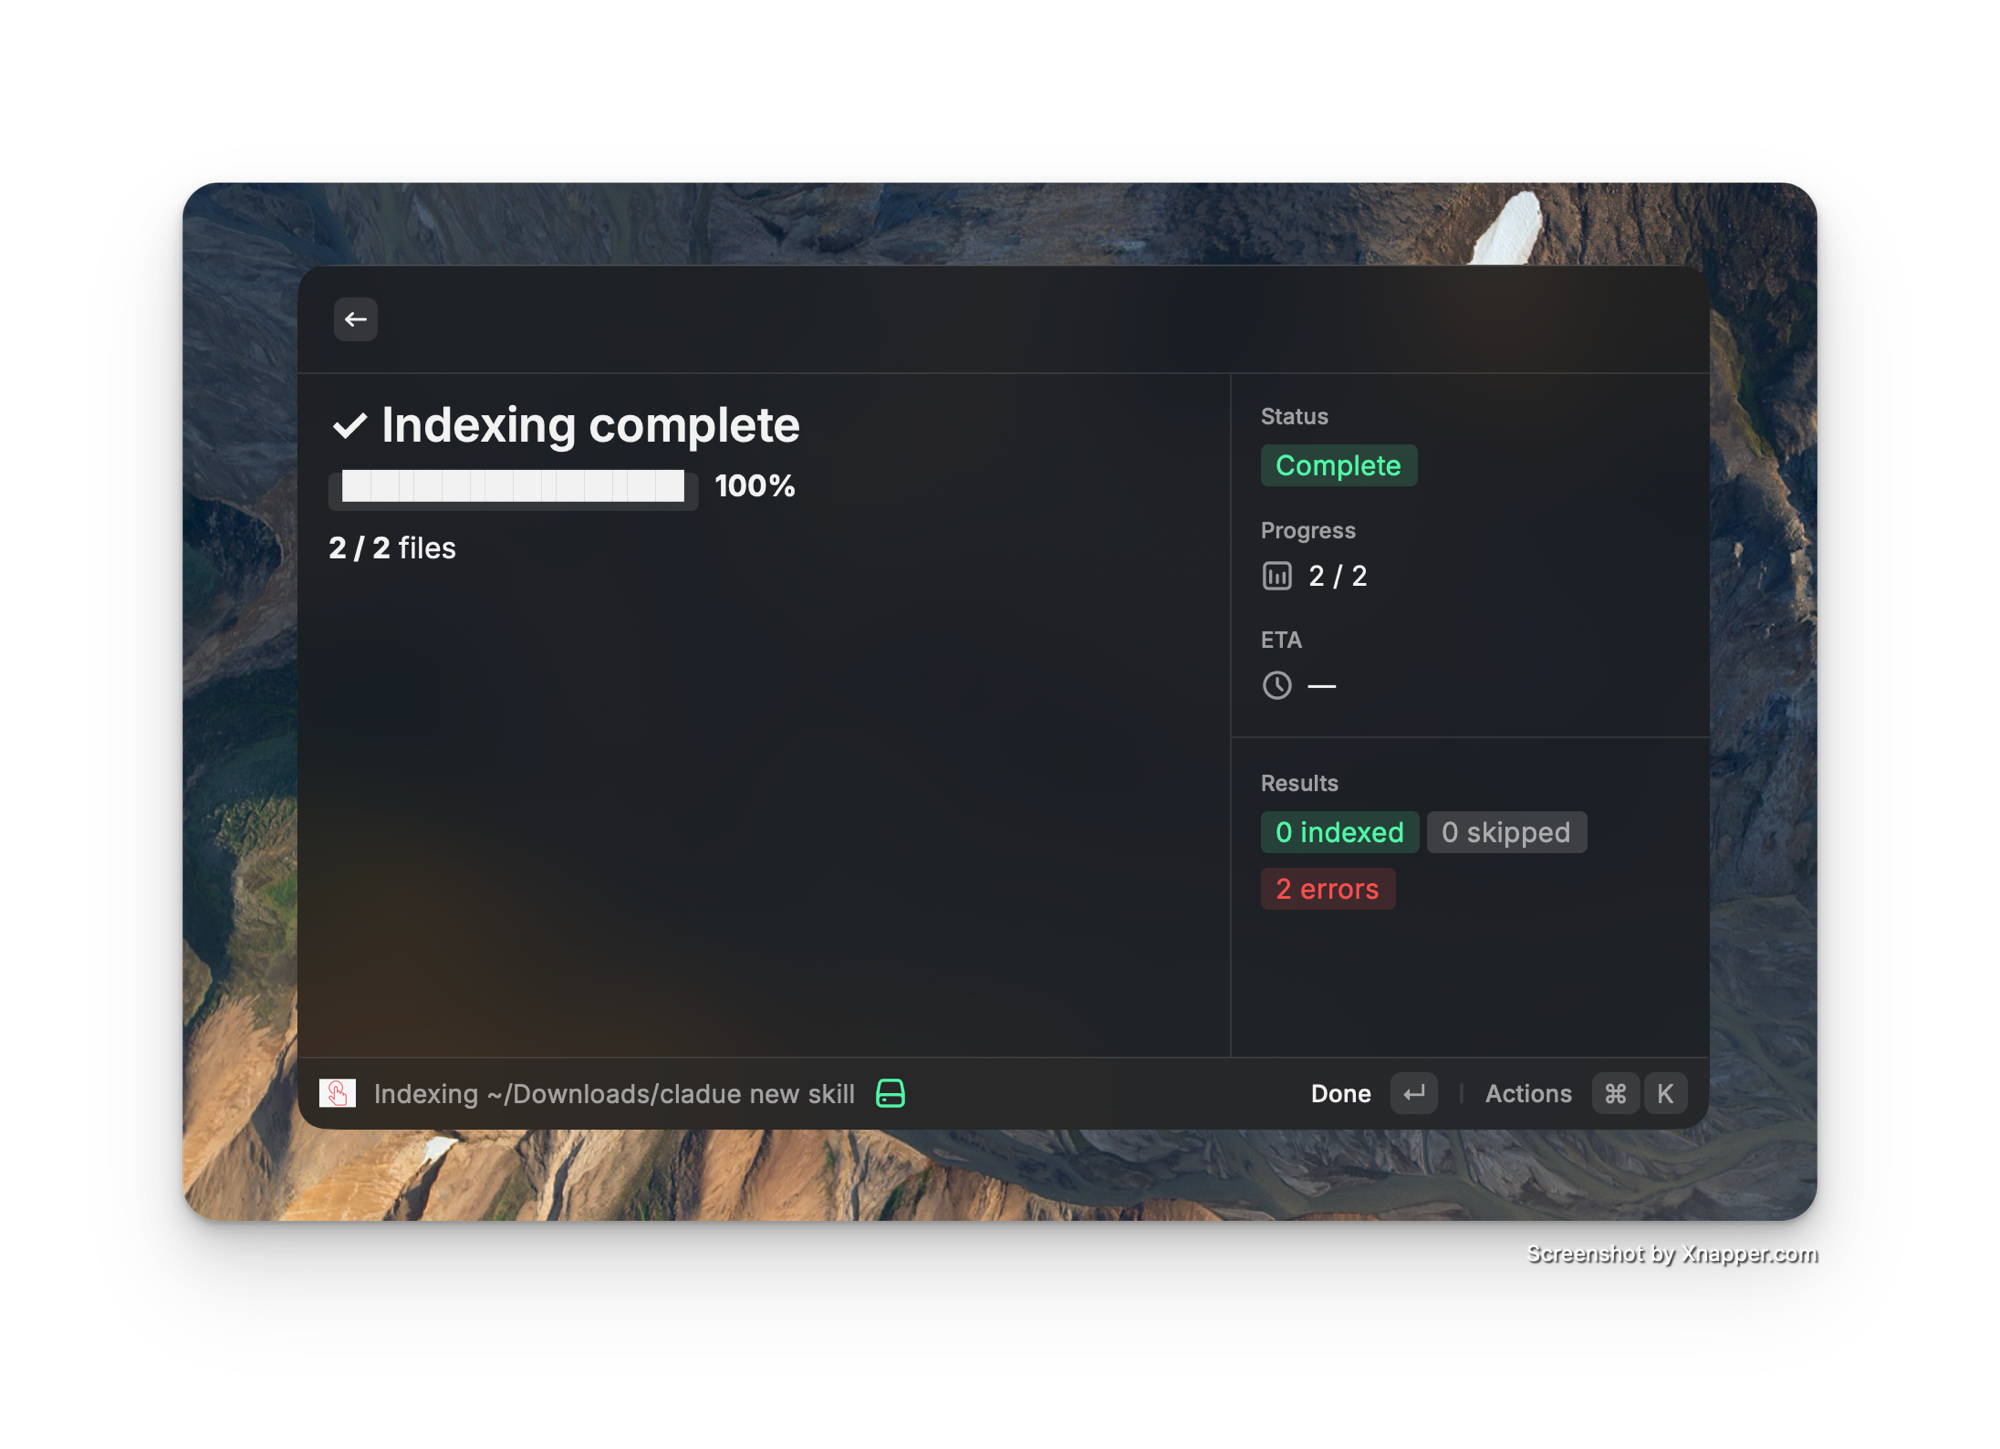
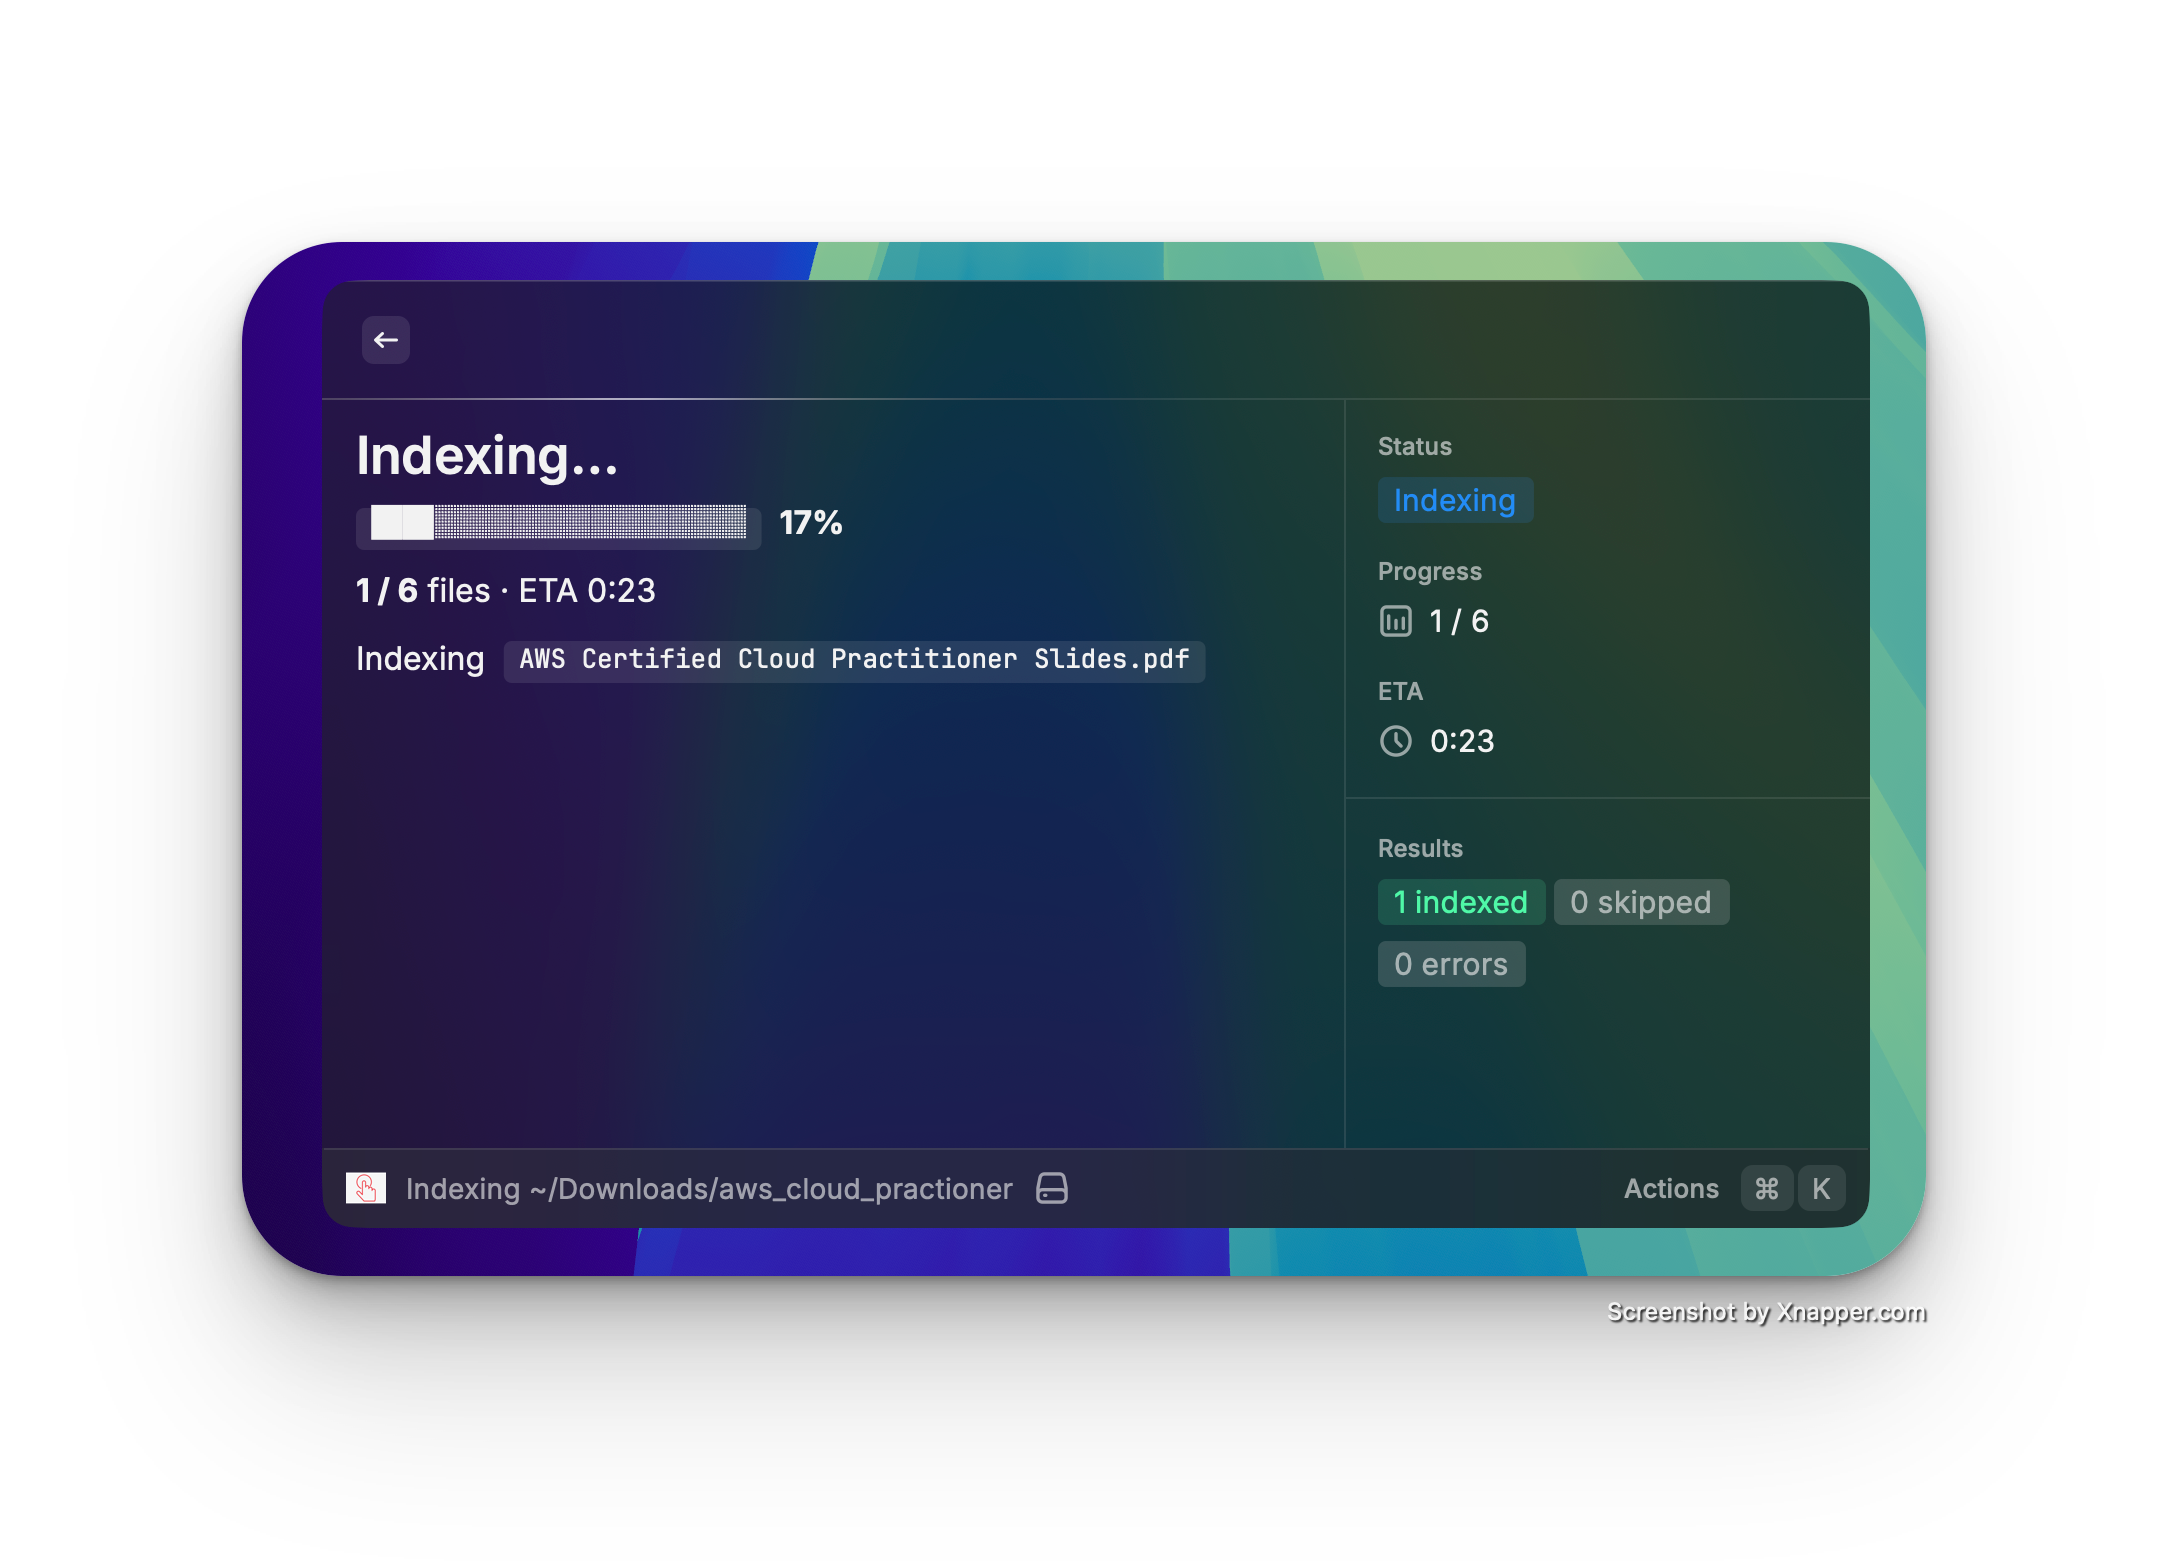
assets changes / raycast serach preview enabled

diff --git a/raycast/src/search.tsx b/raycast/src/search.tsx
@@ -1,26 +1,44 @@
 import { List, ActionPanel, Action, Icon, Color } from "@raycast/api";
 import { useState, useEffect, useRef } from "react";
-import { homedir } from "os";
+import { homedir, tmpdir } from "os";
 import { spawn } from "child_process";
+import { statSync, mkdirSync, existsSync, readFileSync } from "fs";
 import { search as apiSearch, ensureDaemon, SearchResult } from "./api";
 
 const HOME = homedir();
+const THUMB_DIR = `${tmpdir()}/mac-memory-thumbs`;
 
-// ── presentation helpers ─────────────────────────────────────────────────────
+// ── file type helpers ─────────────────────────────────────────────────────────
 
-const TYPE_STYLE: Record<string, { icon: Icon; color: Color }> = {
-  image: { icon: Icon.Image, color: Color.Purple },
-  pdf: { icon: Icon.Document, color: Color.Red },
-  text: { icon: Icon.Text, color: Color.Blue },
-  office: { icon: Icon.Document, color: Color.Magenta },
-  audio: { icon: Icon.Music, color: Color.Orange },
+const TYPE_COLOR: Record<string, Color> = {
+  image: Color.Purple,
+  pdf: Color.Red,
+  text: Color.Blue,
+  office: Color.Magenta,
+  audio: Color.Orange,
 };
 
-function typeStyle(t: string) {
-  return TYPE_STYLE[t] ?? { icon: Icon.Dot, color: Color.SecondaryText };
+function typeColor(t: string): Color {
+  return TYPE_COLOR[t] ?? Color.SecondaryText;
 }
 
-// relevance tiers tuned to gemini-embedding-2 retrieval scores
+function fileTypeDesc(path: string, fileType: string): string {
+  const ext = path.split(".").pop()?.toLowerCase() ?? "";
+  const map: Record<string, string> = {
+    docx: "Word Document", doc: "Word Document",
+    xlsx: "Excel Spreadsheet", xls: "Excel Spreadsheet",
+    pptx: "PowerPoint Presentation", ppt: "PowerPoint Presentation",
+    pdf: "PDF Document",
+    png: "PNG Image", jpg: "JPEG Image", jpeg: "JPEG Image",
+    gif: "GIF Image", heic: "HEIC Image", webp: "WebP Image", svg: "SVG Image",
+    txt: "Text File", md: "Markdown Document", csv: "CSV Spreadsheet",
+    mp3: "MP3 Audio", mp4: "MP4 Video", wav: "WAV Audio", m4a: "M4A Audio",
+    js: "JavaScript", ts: "TypeScript", py: "Python Script",
+    json: "JSON", yaml: "YAML", toml: "TOML", sh: "Shell Script",
+  };
+  return map[ext] ?? fileType;
+}
+
 function tierColor(s: number): Color {
   if (s >= 0.65) return Color.Green;
   if (s >= 0.5) return Color.Yellow;
@@ -35,12 +53,8 @@ function meter(s: number, width = 10): string {
 function humanSize(bytes: number): string {
   if (!bytes) return "—";
   const units = ["B", "KB", "MB", "GB"];
-  let n = bytes;
-  let i = 0;
-  while (n >= 1024 && i < units.length - 1) {
-    n /= 1024;
-    i++;
-  }
+  let n = bytes, i = 0;
+  while (n >= 1024 && i < units.length - 1) { n /= 1024; i++; }
   return `${n.toFixed(n < 10 && i > 0 ? 1 : 0)} ${units[i]}`;
 }
 
@@ -49,13 +63,63 @@ function prettyDir(path: string): string {
   return dir.startsWith(HOME) ? "~" + dir.slice(HOME.length) : dir;
 }
 
-function detailMarkdown(r: SearchResult): string {
+function parentFolder(path: string): string {
+  return path.split("/").slice(-2, -1)[0] ?? "—";
+}
+
+function fileDate(path: string): string {
+  try {
+    return statSync(path).mtime.toLocaleDateString("en-AU", {
+      day: "2-digit", month: "2-digit", year: "2-digit",
+    });
+  } catch {
+    return "—";
+  }
+}
+
+// ── preview helpers ───────────────────────────────────────────────────────────
+
+async function generateThumbnail(filePath: string): Promise<string | null> {
+  return new Promise((resolve) => {
+    try { mkdirSync(THUMB_DIR, { recursive: true }); } catch { resolve(null); return; }
+    const proc = spawn("qlmanage", ["-t", "-s", "600", "-o", THUMB_DIR, filePath]);
+    const timeout = setTimeout(() => { proc.kill(); resolve(null); }, 5000);
+    proc.on("close", () => {
+      clearTimeout(timeout);
+      const thumbPath = `${THUMB_DIR}/${filePath.split("/").pop()}.png`;
+      resolve(existsSync(thumbPath) ? thumbPath : null);
+    });
+    proc.on("error", () => { clearTimeout(timeout); resolve(null); });
+  });
+}
+
+function textPreview(path: string): string {
+  try {
+    const content = readFileSync(path, "utf-8");
+    const lines = content.split("\n").slice(0, 60).join("\n");
+    const ext = path.split(".").pop()?.toLowerCase() ?? "";
+    const lang = ext === "md" ? "" : ext;
+    return `\`\`\`${lang}\n${lines}\n\`\`\``;
+  } catch {
+    return "_Could not read file._";
+  }
+}
+
+function detailMarkdown(r: SearchResult, thumbnail?: string): string {
   if (r.file_type === "image") {
     return `![${r.name}](${encodeURI("file://" + r.path)})`;
   }
+  if (thumbnail) {
+    return `![preview](${encodeURI("file://" + thumbnail)})`;
+  }
+  if (r.file_type === "text") {
+    return textPreview(r.path);
+  }
   const pct = Math.round(r.similarity * 100);
-  return `# ${r.name}\n\n\`${meter(r.similarity, 20)}\`  **${pct}% match**\n\n\`${prettyDir(r.path)}\``;
+  return `# ${r.name}\n\n\`${meter(r.similarity, 20)}\`  **${pct}% match**\n\n\`${prettyDir(r.path)}\`\n\n_Generating preview…_`;
 }
+
+// ── tiers ─────────────────────────────────────────────────────────────────────
 
 const TIERS: { key: string; title: string; min: number }[] = [
   { key: "strong", title: "Strong matches", min: 0.65 },
@@ -70,24 +134,19 @@ export default function Command() {
   const [typeFilter, setTypeFilter] = useState<string>("");
   const [results, setResults] = useState<SearchResult[]>([]);
   const [isLoading, setIsLoading] = useState(false);
-  const [showDetail, setShowDetail] = useState(false);
+  const [showDetail, setShowDetail] = useState(true);
   const [daemonDown, setDaemonDown] = useState(false);
+  const [thumbnails, setThumbnails] = useState<Map<string, string>>(new Map());
   const timer = useRef<ReturnType<typeof setTimeout> | undefined>(undefined);
+  const queuedThumbs = useRef<Set<string>>(new Set());
 
   useEffect(() => {
     clearTimeout(timer.current);
-    if (!query.trim()) {
-      setResults([]);
-      setIsLoading(false);
-      return;
-    }
+    if (!query.trim()) { setResults([]); setIsLoading(false); return; }
     setIsLoading(true);
     timer.current = setTimeout(async () => {
       if (!(await ensureDaemon())) {
-        setDaemonDown(true);
-        setResults([]);
-        setIsLoading(false);
-        return;
+        setDaemonDown(true); setResults([]); setIsLoading(false); return;
       }
       setDaemonDown(false);
       setResults(await apiSearch(query, 12, typeFilter || undefined));
@@ -96,33 +155,56 @@ export default function Command() {
     return () => clearTimeout(timer.current);
   }, [query, typeFilter]);
 
+  // generate Quick Look thumbnails for non-image files in the background
+  useEffect(() => {
+    for (const r of results) {
+      if (r.file_type === "image" || queuedThumbs.current.has(r.path)) continue;
+      queuedThumbs.current.add(r.path);
+      generateThumbnail(r.path).then((thumb) => {
+        if (thumb) setThumbnails((prev) => new Map(prev).set(r.path, thumb));
+      });
+    }
+  }, [results]);
+
   function renderItem(r: SearchResult) {
-    const style = typeStyle(r.file_type);
     const pct = Math.round(r.similarity * 100);
+    const thumb = thumbnails.get(r.path);
+
     return (
       <List.Item
         key={r.path}
-        icon={{ source: style.icon, tintColor: style.color }}
+        icon={{ fileIcon: r.path }}
         title={r.name}
-        subtitle={showDetail ? undefined : prettyDir(r.path)}
+        subtitle={showDetail ? undefined : `${fileTypeDesc(r.path, r.file_type)} · ${humanSize(r.size)}`}
         accessories={[
           { tag: { value: `${pct}%`, color: tierColor(r.similarity) } },
-          ...(showDetail ? [] : [{ text: r.file_type }]),
+          ...(showDetail ? [] : [
+            { text: { value: fileDate(r.path), color: Color.SecondaryText } },
+            { text: { value: parentFolder(r.path), color: Color.SecondaryText } },
+          ]),
         ]}
         detail={
           <List.Item.Detail
-            markdown={detailMarkdown(r)}
+            markdown={detailMarkdown(r, thumb)}
             metadata={
               <List.Item.Detail.Metadata>
-                <List.Item.Detail.Metadata.Label title="Name" text={r.name} icon={{ source: style.icon, tintColor: style.color }} />
+                <List.Item.Detail.Metadata.Label
+                  title="Name"
+                  text={r.name}
+                  icon={{ fileIcon: r.path }}
+                />
                 <List.Item.Detail.Metadata.TagList title="Type">
-                  <List.Item.Detail.Metadata.TagList.Item text={r.file_type} color={style.color} />
+                  <List.Item.Detail.Metadata.TagList.Item
+                    text={fileTypeDesc(r.path, r.file_type)}
+                    color={typeColor(r.file_type)}
+                  />
                 </List.Item.Detail.Metadata.TagList>
                 <List.Item.Detail.Metadata.Label title="Match" text={`${meter(r.similarity)}  ${pct}%`} />
                 <List.Item.Detail.Metadata.Label title="Size" text={humanSize(r.size)} />
+                <List.Item.Detail.Metadata.Label title="Modified" text={fileDate(r.path)} />
                 <List.Item.Detail.Metadata.Separator />
-                <List.Item.Detail.Metadata.Label title="Folder" text={prettyDir(r.path)} />
-                <List.Item.Detail.Metadata.Label title="Path" text={r.path} />
+                <List.Item.Detail.Metadata.Label title="Folder" text={parentFolder(r.path)} />
+                <List.Item.Detail.Metadata.Label title="Path" text={prettyDir(r.path)} />
               </List.Item.Detail.Metadata>
             }
           />
@@ -135,7 +217,7 @@ export default function Command() {
             </ActionPanel.Section>
             <ActionPanel.Section>
               <Action
-                title={showDetail ? "Hide Details" : "Show Details"}
+                title={showDetail ? "Hide Preview" : "Show Preview"}
                 icon={Icon.Sidebar}
                 shortcut={{ modifiers: ["cmd"], key: "d" }}
                 onAction={() => setShowDetail((v) => !v)}
@@ -153,7 +235,7 @@ export default function Command() {
     <List
       isLoading={isLoading}
       onSearchTextChange={setQuery}
-      searchBarPlaceholder="Search your files by meaning — “a photo of a cat”, “my resume”…"
+      searchBarPlaceholder='Search your files by meaning — "a photo of a cat", "my resume"…'
       isShowingDetail={showDetail && results.length > 0}
       throttle
       searchBarAccessory={
@@ -171,7 +253,7 @@ export default function Command() {
         <List.EmptyView
           icon={{ source: Icon.WifiDisabled, tintColor: Color.Red }}
           title="Daemon not running"
-          description="Couldn’t reach the mac-memory daemon on port 8765. Make sure it’s loaded via launchctl."
+          description="Couldn't reach the mac-memory daemon on port 8765. Make sure it's loaded via launchctl."
           actions={
             <ActionPanel>
               <Action title="Retry" icon={Icon.ArrowClockwise} onAction={() => setQuery((q) => q + " ")} />
@@ -188,7 +270,7 @@ export default function Command() {
         <List.EmptyView
           icon={{ source: Icon.Tray, tintColor: Color.SecondaryText }}
           title="No matches"
-          description={`Nothing indexed matches “${query}”${typeFilter ? ` in ${typeFilter}` : ""}.`}
+          description={`Nothing indexed matches "${query}"${typeFilter ? ` in ${typeFilter}` : ""}.`}
         />
       ) : (
         TIERS.map((tier, i) => {
